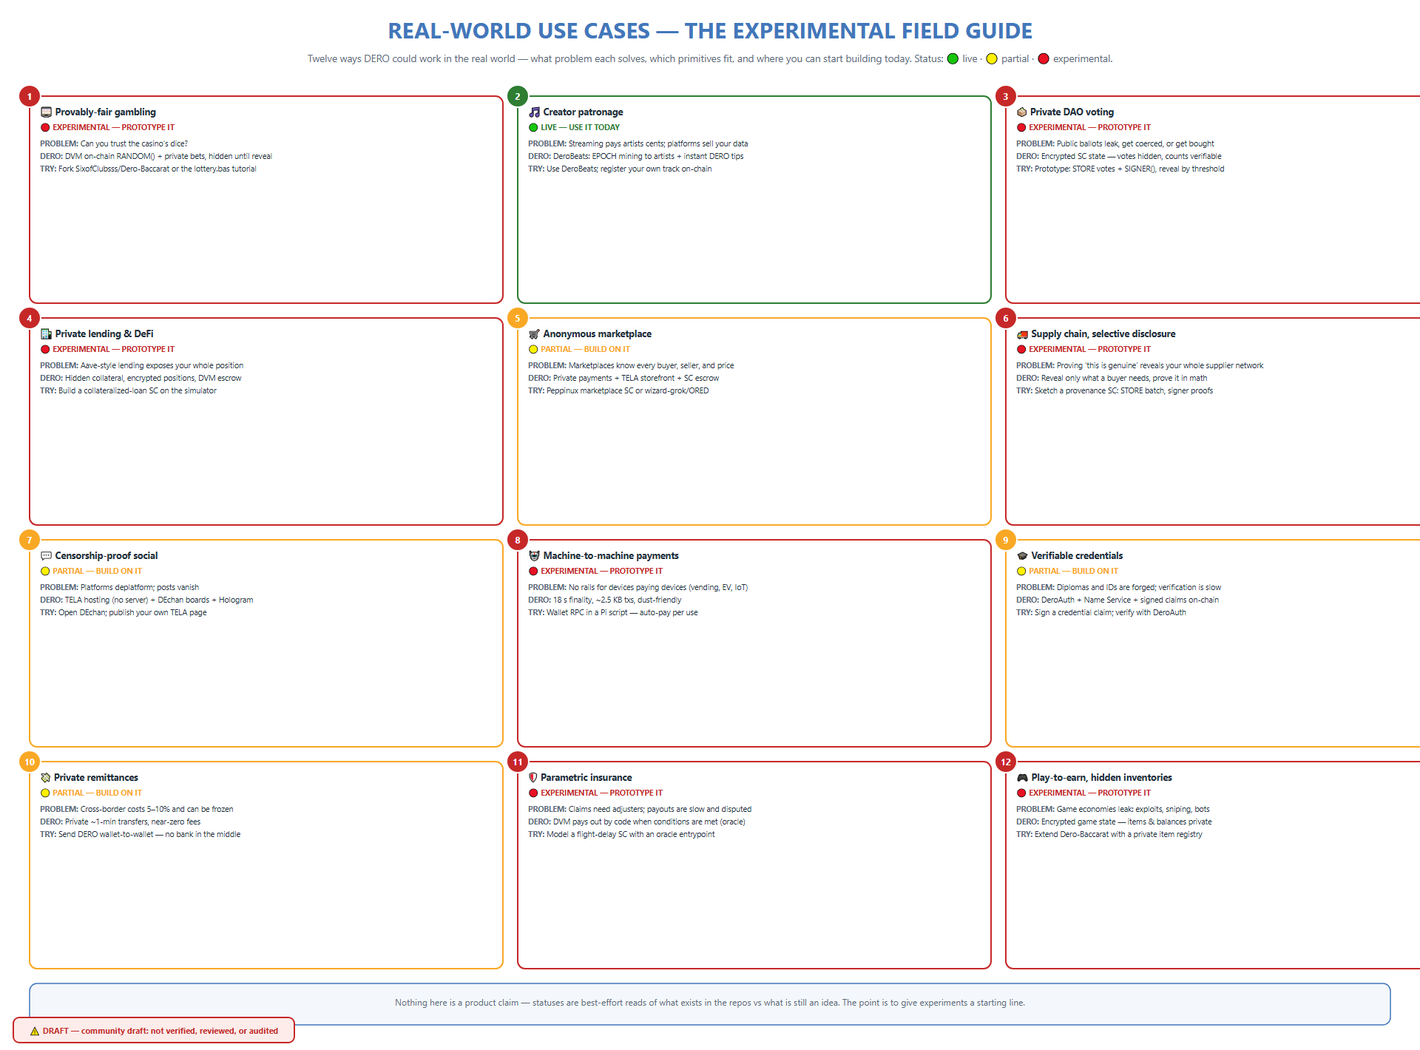
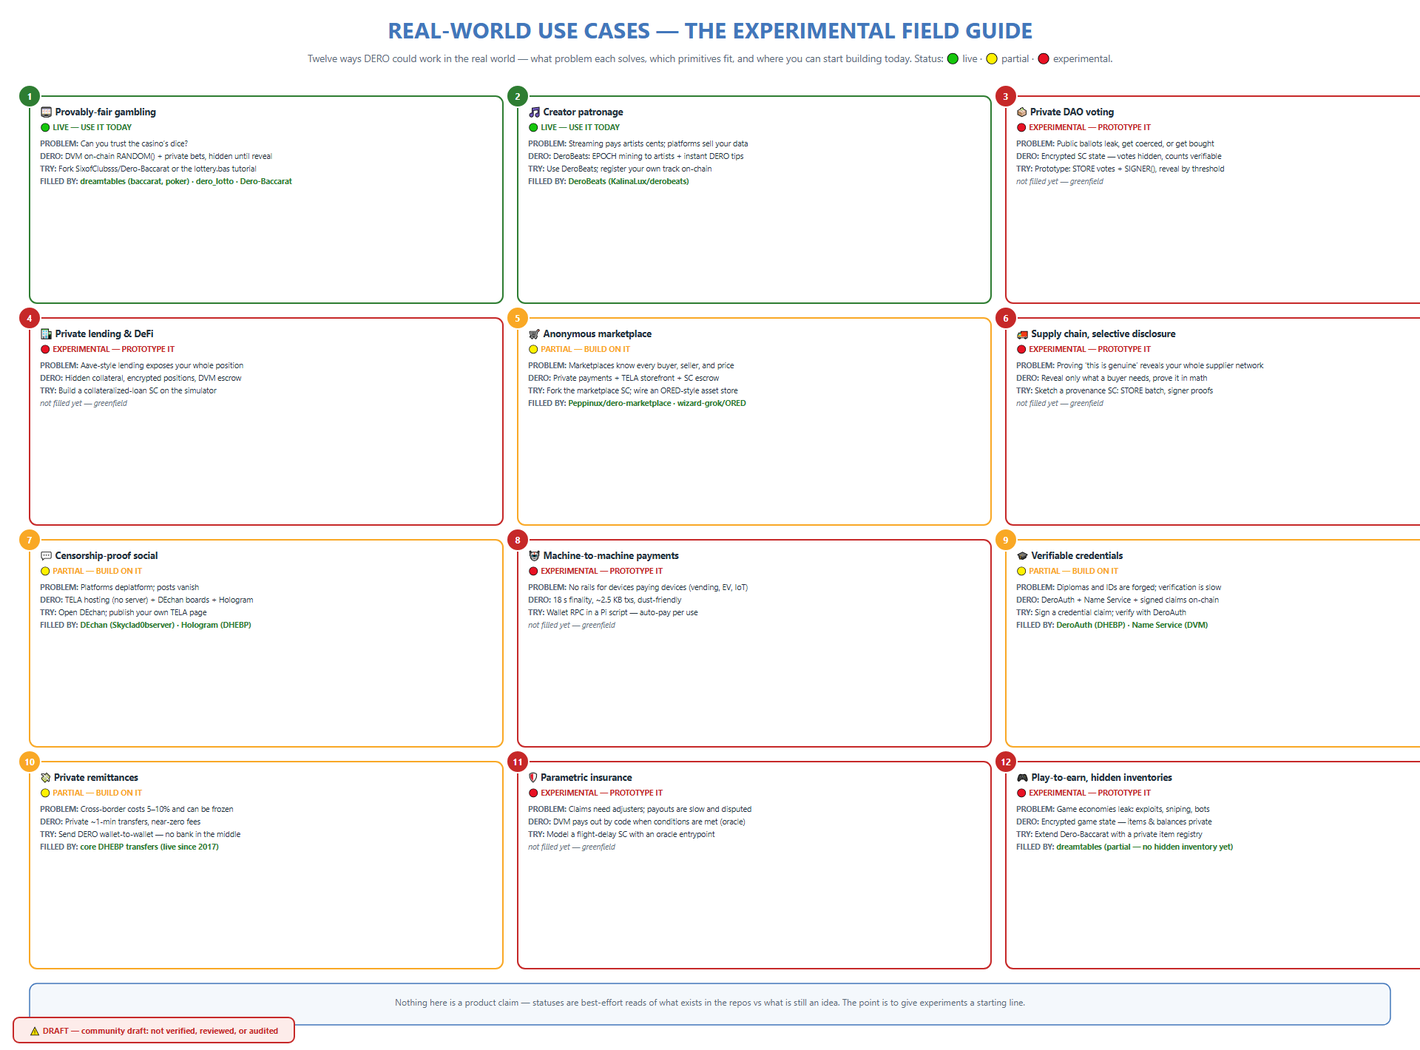
Fill in real projects on field guide cards + fix gambling status
- Every use-case card now ends with FILLED BY (green, real project) or
  'not filled yet - greenfield' (italic):
  * Filled: gambling (dreamtables, dero_lotto, Dero-Baccarat),
    patronage (DeroBeats), marketplace (Peppinux SC, ORED), social
    (DEchan, Hologram), credentials (DeroAuth, Name Service),
    remittances (core DHEBP), P2E (dreamtables, partial)
  * Greenfield: DAO voting, lending/DeFi, supply chain, M2M, insurance
- Provably-fair gambling corrected to LIVE (dreamtables + dero_lotto
  are running) - was marked experimental
- Subtitle explains the FILLED BY convention

diff --git a/preview_experiments1.html b/preview_experiments1.html
@@ -2,14 +2,15 @@
 <rect x="0" y="0" width="1920" height="1420" fill="#FFFFFF"/>
 <text x="960.0" y="52" text-anchor="middle" font-size="30" font-weight="700" fill="#4277BB">REAL-WORLD USE CASES — THE EXPERIMENTAL FIELD GUIDE</text>
 <text x="960.0" y="84" text-anchor="middle" font-size="13.5" fill="#5A6B7A">Twelve ways DERO could work in the real world — what problem each solves, which primitives fit, and where you can start building today.  Status: 🟢 live · 🟡 partial · 🔴 experimental.</text>
-<rect x="40" y="130" width="640" height="280" rx="10" fill="#FFFFFF" stroke="#C62828" stroke-width="2"/>
-<circle cx="40" cy="130" r="15" fill="#C62828" stroke="#FFFFFF" stroke-width="2"/>
+<rect x="40" y="130" width="640" height="280" rx="10" fill="#FFFFFF" stroke="#2E7D32" stroke-width="2"/>
+<circle cx="40" cy="130" r="15" fill="#2E7D32" stroke="#FFFFFF" stroke-width="2"/>
 <text x="40" y="135" text-anchor="middle" font-size="12" font-weight="700" fill="#FFFFFF">1</text>
 <text x="54" y="156" font-size="12.5" font-weight="700" fill="#22303C">🎰 Provably-fair gambling</text>
-<text x="54" y="176" font-size="10.5" font-weight="700" fill="#C62828">🔴 EXPERIMENTAL — PROTOTYPE IT</text>
+<text x="54" y="176" font-size="10.5" font-weight="700" fill="#2E7D32">🟢 LIVE — USE IT TODAY</text>
 <text x="54" y="198" font-size="10.5" fill="#22303C"><tspan font-weight="700" fill="#5A6B7A">PROBLEM: </tspan>Can you trust the casino’s dice?</text>
 <text x="54" y="215" font-size="10.5" fill="#22303C"><tspan font-weight="700" fill="#5A6B7A">DERO: </tspan>DVM on-chain RANDOM() + private bets, hidden until reveal</text>
 <text x="54" y="232" font-size="10.5" fill="#22303C"><tspan font-weight="700" fill="#5A6B7A">TRY: </tspan>Fork SixofClubsss/Dero-Baccarat or the lottery.bas tutorial</text>
+<text x="54" y="249" font-size="10.5" fill="#22303C"><tspan font-weight="700" fill="#5A6B7A">FILLED BY: </tspan><tspan font-weight="700" fill="#2E7D32">dreamtables (baccarat, poker) · dero_lotto · Dero-Baccarat</tspan></text>
 <rect x="700" y="130" width="640" height="280" rx="10" fill="#FFFFFF" stroke="#2E7D32" stroke-width="2"/>
 <circle cx="700" cy="130" r="15" fill="#2E7D32" stroke="#FFFFFF" stroke-width="2"/>
 <text x="700" y="135" text-anchor="middle" font-size="12" font-weight="700" fill="#FFFFFF">2</text>
@@ -18,6 +19,7 @@
 <text x="714" y="198" font-size="10.5" fill="#22303C"><tspan font-weight="700" fill="#5A6B7A">PROBLEM: </tspan>Streaming pays artists cents; platforms sell your data</text>
 <text x="714" y="215" font-size="10.5" fill="#22303C"><tspan font-weight="700" fill="#5A6B7A">DERO: </tspan>DeroBeats: EPOCH mining to artists + instant DERO tips</text>
 <text x="714" y="232" font-size="10.5" fill="#22303C"><tspan font-weight="700" fill="#5A6B7A">TRY: </tspan>Use DeroBeats; register your own track on-chain</text>
+<text x="714" y="249" font-size="10.5" fill="#22303C"><tspan font-weight="700" fill="#5A6B7A">FILLED BY: </tspan><tspan font-weight="700" fill="#2E7D32">DeroBeats (KalinaLux/derobeats)</tspan></text>
 <rect x="1360" y="130" width="640" height="280" rx="10" fill="#FFFFFF" stroke="#C62828" stroke-width="2"/>
 <circle cx="1360" cy="130" r="15" fill="#C62828" stroke="#FFFFFF" stroke-width="2"/>
 <text x="1360" y="135" text-anchor="middle" font-size="12" font-weight="700" fill="#FFFFFF">3</text>
@@ -26,6 +28,7 @@
 <text x="1374" y="198" font-size="10.5" fill="#22303C"><tspan font-weight="700" fill="#5A6B7A">PROBLEM: </tspan>Public ballots leak, get coerced, or get bought</text>
 <text x="1374" y="215" font-size="10.5" fill="#22303C"><tspan font-weight="700" fill="#5A6B7A">DERO: </tspan>Encrypted SC state — votes hidden, counts verifiable</text>
 <text x="1374" y="232" font-size="10.5" fill="#22303C"><tspan font-weight="700" fill="#5A6B7A">TRY: </tspan>Prototype: STORE votes + SIGNER(), reveal by threshold</text>
+<text x="1374" y="249" font-size="10.5" font-style="italic" fill="#66727E">not filled yet — greenfield</text>
 <rect x="40" y="430" width="640" height="280" rx="10" fill="#FFFFFF" stroke="#C62828" stroke-width="2"/>
 <circle cx="40" cy="430" r="15" fill="#C62828" stroke="#FFFFFF" stroke-width="2"/>
 <text x="40" y="435" text-anchor="middle" font-size="12" font-weight="700" fill="#FFFFFF">4</text>
@@ -34,6 +37,7 @@
 <text x="54" y="498" font-size="10.5" fill="#22303C"><tspan font-weight="700" fill="#5A6B7A">PROBLEM: </tspan>Aave-style lending exposes your whole position</text>
 <text x="54" y="515" font-size="10.5" fill="#22303C"><tspan font-weight="700" fill="#5A6B7A">DERO: </tspan>Hidden collateral, encrypted positions, DVM escrow</text>
 <text x="54" y="532" font-size="10.5" fill="#22303C"><tspan font-weight="700" fill="#5A6B7A">TRY: </tspan>Build a collateralized-loan SC on the simulator</text>
+<text x="54" y="549" font-size="10.5" font-style="italic" fill="#66727E">not filled yet — greenfield</text>
 <rect x="700" y="430" width="640" height="280" rx="10" fill="#FFFFFF" stroke="#F9A825" stroke-width="2"/>
 <circle cx="700" cy="430" r="15" fill="#F9A825" stroke="#FFFFFF" stroke-width="2"/>
 <text x="700" y="435" text-anchor="middle" font-size="12" font-weight="700" fill="#FFFFFF">5</text>
@@ -41,7 +45,8 @@
 <text x="714" y="476" font-size="10.5" font-weight="700" fill="#F9A825">🟡 PARTIAL — BUILD ON IT</text>
 <text x="714" y="498" font-size="10.5" fill="#22303C"><tspan font-weight="700" fill="#5A6B7A">PROBLEM: </tspan>Marketplaces know every buyer, seller, and price</text>
 <text x="714" y="515" font-size="10.5" fill="#22303C"><tspan font-weight="700" fill="#5A6B7A">DERO: </tspan>Private payments + TELA storefront + SC escrow</text>
-<text x="714" y="532" font-size="10.5" fill="#22303C"><tspan font-weight="700" fill="#5A6B7A">TRY: </tspan>Peppinux marketplace SC or wizard-grok/ORED</text>
+<text x="714" y="532" font-size="10.5" fill="#22303C"><tspan font-weight="700" fill="#5A6B7A">TRY: </tspan>Fork the marketplace SC; wire an ORED-style asset store</text>
+<text x="714" y="549" font-size="10.5" fill="#22303C"><tspan font-weight="700" fill="#5A6B7A">FILLED BY: </tspan><tspan font-weight="700" fill="#2E7D32">Peppinux/dero-marketplace · wizard-grok/ORED</tspan></text>
 <rect x="1360" y="430" width="640" height="280" rx="10" fill="#FFFFFF" stroke="#C62828" stroke-width="2"/>
 <circle cx="1360" cy="430" r="15" fill="#C62828" stroke="#FFFFFF" stroke-width="2"/>
 <text x="1360" y="435" text-anchor="middle" font-size="12" font-weight="700" fill="#FFFFFF">6</text>
@@ -50,6 +55,7 @@
 <text x="1374" y="498" font-size="10.5" fill="#22303C"><tspan font-weight="700" fill="#5A6B7A">PROBLEM: </tspan>Proving ‘this is genuine’ reveals your whole supplier network</text>
 <text x="1374" y="515" font-size="10.5" fill="#22303C"><tspan font-weight="700" fill="#5A6B7A">DERO: </tspan>Reveal only what a buyer needs, prove it in math</text>
 <text x="1374" y="532" font-size="10.5" fill="#22303C"><tspan font-weight="700" fill="#5A6B7A">TRY: </tspan>Sketch a provenance SC: STORE batch, signer proofs</text>
+<text x="1374" y="549" font-size="10.5" font-style="italic" fill="#66727E">not filled yet — greenfield</text>
 <rect x="40" y="730" width="640" height="280" rx="10" fill="#FFFFFF" stroke="#F9A825" stroke-width="2"/>
 <circle cx="40" cy="730" r="15" fill="#F9A825" stroke="#FFFFFF" stroke-width="2"/>
 <text x="40" y="735" text-anchor="middle" font-size="12" font-weight="700" fill="#FFFFFF">7</text>
@@ -58,6 +64,7 @@
 <text x="54" y="798" font-size="10.5" fill="#22303C"><tspan font-weight="700" fill="#5A6B7A">PROBLEM: </tspan>Platforms deplatform; posts vanish</text>
 <text x="54" y="815" font-size="10.5" fill="#22303C"><tspan font-weight="700" fill="#5A6B7A">DERO: </tspan>TELA hosting (no server) + DEchan boards + Hologram</text>
 <text x="54" y="832" font-size="10.5" fill="#22303C"><tspan font-weight="700" fill="#5A6B7A">TRY: </tspan>Open DEchan; publish your own TELA page</text>
+<text x="54" y="849" font-size="10.5" fill="#22303C"><tspan font-weight="700" fill="#5A6B7A">FILLED BY: </tspan><tspan font-weight="700" fill="#2E7D32">DEchan (Skyclad0bserver) · Hologram (DHEBP)</tspan></text>
 <rect x="700" y="730" width="640" height="280" rx="10" fill="#FFFFFF" stroke="#C62828" stroke-width="2"/>
 <circle cx="700" cy="730" r="15" fill="#C62828" stroke="#FFFFFF" stroke-width="2"/>
 <text x="700" y="735" text-anchor="middle" font-size="12" font-weight="700" fill="#FFFFFF">8</text>
@@ -66,6 +73,7 @@
 <text x="714" y="798" font-size="10.5" fill="#22303C"><tspan font-weight="700" fill="#5A6B7A">PROBLEM: </tspan>No rails for devices paying devices (vending, EV, IoT)</text>
 <text x="714" y="815" font-size="10.5" fill="#22303C"><tspan font-weight="700" fill="#5A6B7A">DERO: </tspan>18 s finality, ~2.5 KB txs, dust-friendly</text>
 <text x="714" y="832" font-size="10.5" fill="#22303C"><tspan font-weight="700" fill="#5A6B7A">TRY: </tspan>Wallet RPC in a Pi script — auto-pay per use</text>
+<text x="714" y="849" font-size="10.5" font-style="italic" fill="#66727E">not filled yet — greenfield</text>
 <rect x="1360" y="730" width="640" height="280" rx="10" fill="#FFFFFF" stroke="#F9A825" stroke-width="2"/>
 <circle cx="1360" cy="730" r="15" fill="#F9A825" stroke="#FFFFFF" stroke-width="2"/>
 <text x="1360" y="735" text-anchor="middle" font-size="12" font-weight="700" fill="#FFFFFF">9</text>
@@ -74,6 +82,7 @@
 <text x="1374" y="798" font-size="10.5" fill="#22303C"><tspan font-weight="700" fill="#5A6B7A">PROBLEM: </tspan>Diplomas and IDs are forged; verification is slow</text>
 <text x="1374" y="815" font-size="10.5" fill="#22303C"><tspan font-weight="700" fill="#5A6B7A">DERO: </tspan>DeroAuth + Name Service + signed claims on-chain</text>
 <text x="1374" y="832" font-size="10.5" fill="#22303C"><tspan font-weight="700" fill="#5A6B7A">TRY: </tspan>Sign a credential claim; verify with DeroAuth</text>
+<text x="1374" y="849" font-size="10.5" fill="#22303C"><tspan font-weight="700" fill="#5A6B7A">FILLED BY: </tspan><tspan font-weight="700" fill="#2E7D32">DeroAuth (DHEBP) · Name Service (DVM)</tspan></text>
 <rect x="40" y="1030" width="640" height="280" rx="10" fill="#FFFFFF" stroke="#F9A825" stroke-width="2"/>
 <circle cx="40" cy="1030" r="15" fill="#F9A825" stroke="#FFFFFF" stroke-width="2"/>
 <text x="40" y="1035" text-anchor="middle" font-size="12" font-weight="700" fill="#FFFFFF">10</text>
@@ -82,6 +91,7 @@
 <text x="54" y="1098" font-size="10.5" fill="#22303C"><tspan font-weight="700" fill="#5A6B7A">PROBLEM: </tspan>Cross-border costs 5–10% and can be frozen</text>
 <text x="54" y="1115" font-size="10.5" fill="#22303C"><tspan font-weight="700" fill="#5A6B7A">DERO: </tspan>Private ~1-min transfers, near-zero fees</text>
 <text x="54" y="1132" font-size="10.5" fill="#22303C"><tspan font-weight="700" fill="#5A6B7A">TRY: </tspan>Send DERO wallet-to-wallet — no bank in the middle</text>
+<text x="54" y="1149" font-size="10.5" fill="#22303C"><tspan font-weight="700" fill="#5A6B7A">FILLED BY: </tspan><tspan font-weight="700" fill="#2E7D32">core DHEBP transfers (live since 2017)</tspan></text>
 <rect x="700" y="1030" width="640" height="280" rx="10" fill="#FFFFFF" stroke="#C62828" stroke-width="2"/>
 <circle cx="700" cy="1030" r="15" fill="#C62828" stroke="#FFFFFF" stroke-width="2"/>
 <text x="700" y="1035" text-anchor="middle" font-size="12" font-weight="700" fill="#FFFFFF">11</text>
@@ -90,6 +100,7 @@
 <text x="714" y="1098" font-size="10.5" fill="#22303C"><tspan font-weight="700" fill="#5A6B7A">PROBLEM: </tspan>Claims need adjusters; payouts are slow and disputed</text>
 <text x="714" y="1115" font-size="10.5" fill="#22303C"><tspan font-weight="700" fill="#5A6B7A">DERO: </tspan>DVM pays out by code when conditions are met (oracle)</text>
 <text x="714" y="1132" font-size="10.5" fill="#22303C"><tspan font-weight="700" fill="#5A6B7A">TRY: </tspan>Model a flight-delay SC with an oracle entrypoint</text>
+<text x="714" y="1149" font-size="10.5" font-style="italic" fill="#66727E">not filled yet — greenfield</text>
 <rect x="1360" y="1030" width="640" height="280" rx="10" fill="#FFFFFF" stroke="#C62828" stroke-width="2"/>
 <circle cx="1360" cy="1030" r="15" fill="#C62828" stroke="#FFFFFF" stroke-width="2"/>
 <text x="1360" y="1035" text-anchor="middle" font-size="12" font-weight="700" fill="#FFFFFF">12</text>
@@ -98,6 +109,7 @@
 <text x="1374" y="1098" font-size="10.5" fill="#22303C"><tspan font-weight="700" fill="#5A6B7A">PROBLEM: </tspan>Game economies leak: exploits, sniping, bots</text>
 <text x="1374" y="1115" font-size="10.5" fill="#22303C"><tspan font-weight="700" fill="#5A6B7A">DERO: </tspan>Encrypted game state — items &amp; balances private</text>
 <text x="1374" y="1132" font-size="10.5" fill="#22303C"><tspan font-weight="700" fill="#5A6B7A">TRY: </tspan>Extend Dero-Baccarat with a private item registry</text>
+<text x="1374" y="1149" font-size="10.5" fill="#22303C"><tspan font-weight="700" fill="#5A6B7A">FILLED BY: </tspan><tspan font-weight="700" fill="#2E7D32">dreamtables (partial — no hidden inventory yet)</tspan></text>
 <rect x="40" y="1330" width="1840" height="56" rx="10" fill="#F4F8FC" stroke="#4277BB" stroke-width="1.5"/>
 <text x="960" y="1360" text-anchor="middle" font-size="12" fill="#5A6B7A">Nothing here is a product claim — statuses are best-effort reads of what exists in the repos vs what is still an idea. The point is to give experiments a starting line.</text>
 <rect x="18" y="1376" width="380" height="34" rx="8" fill="#FDECEA" stroke="#C62828" stroke-width="2"/><text x="208" y="1398" text-anchor="middle" font-size="11" font-weight="700" fill="#C62828">⚠ DRAFT — community draft: not verified, reviewed, or audited</text></svg></body></html>

diff --git a/build_experiments_diagram.py b/build_experiments_diagram.py
@@ -17,54 +17,66 @@ STATUS = {"LIVE": ("#2E7D32", "\U0001F7E2 LIVE \u2014 USE IT TODAY"),
 W, H = 1920, 1420
 
 CARDS = [
-    ("\U0001F3B0 Provably-fair gambling", "EXP",
+    ("\U0001F3B0 Provably-fair gambling", "LIVE",
      "Can you trust the casino\u2019s dice?",
      "DVM on-chain RANDOM() + private bets, hidden until reveal",
-     "Fork SixofClubsss/Dero-Baccarat or the lottery.bas tutorial"),
+     "Fork SixofClubsss/Dero-Baccarat or the lottery.bas tutorial",
+     "dreamtables (baccarat, poker) \u00b7 dero_lotto \u00b7 Dero-Baccarat"),
     ("\U0001F3B5 Creator patronage", "LIVE",
      "Streaming pays artists cents; platforms sell your data",
      "DeroBeats: EPOCH mining to artists + instant DERO tips",
-     "Use DeroBeats; register your own track on-chain"),
+     "Use DeroBeats; register your own track on-chain",
+     "DeroBeats (KalinaLux/derobeats)"),
     ("\U0001F5F3\uFE0F Private DAO voting", "EXP",
      "Public ballots leak, get coerced, or get bought",
      "Encrypted SC state \u2014 votes hidden, counts verifiable",
-     "Prototype: STORE votes + SIGNER(), reveal by threshold"),
+     "Prototype: STORE votes + SIGNER(), reveal by threshold",
+     None),
     ("\U0001F3E6 Private lending & DeFi", "EXP",
      "Aave-style lending exposes your whole position",
      "Hidden collateral, encrypted positions, DVM escrow",
-     "Build a collateralized-loan SC on the simulator"),
+     "Build a collateralized-loan SC on the simulator",
+     None),
     ("\U0001F6D2 Anonymous marketplace", "PARTIAL",
      "Marketplaces know every buyer, seller, and price",
      "Private payments + TELA storefront + SC escrow",
-     "Peppinux marketplace SC or wizard-grok/ORED"),
+     "Fork the marketplace SC; wire an ORED-style asset store",
+     "Peppinux/dero-marketplace \u00b7 wizard-grok/ORED"),
     ("\U0001F69A Supply chain, selective disclosure", "EXP",
      "Proving \u2018this is genuine\u2019 reveals your whole supplier network",
      "Reveal only what a buyer needs, prove it in math",
-     "Sketch a provenance SC: STORE batch, signer proofs"),
+     "Sketch a provenance SC: STORE batch, signer proofs",
+     None),
     ("\U0001F4AC Censorship-proof social", "PARTIAL",
      "Platforms deplatform; posts vanish",
      "TELA hosting (no server) + DEchan boards + Hologram",
-     "Open DEchan; publish your own TELA page"),
+     "Open DEchan; publish your own TELA page",
+     "DEchan (Skyclad0bserver) \u00b7 Hologram (DHEBP)"),
     ("\U0001F916 Machine-to-machine payments", "EXP",
      "No rails for devices paying devices (vending, EV, IoT)",
      "18 s finality, ~2.5 KB txs, dust-friendly",
-     "Wallet RPC in a Pi script \u2014 auto-pay per use"),
+     "Wallet RPC in a Pi script \u2014 auto-pay per use",
+     None),
     ("\U0001F393 Verifiable credentials", "PARTIAL",
      "Diplomas and IDs are forged; verification is slow",
      "DeroAuth + Name Service + signed claims on-chain",
-     "Sign a credential claim; verify with DeroAuth"),
+     "Sign a credential claim; verify with DeroAuth",
+     "DeroAuth (DHEBP) \u00b7 Name Service (DVM)"),
     ("\U0001F4B8 Private remittances", "PARTIAL",
      "Cross-border costs 5\u201310% and can be frozen",
      "Private ~1-min transfers, near-zero fees",
-     "Send DERO wallet-to-wallet \u2014 no bank in the middle"),
+     "Send DERO wallet-to-wallet \u2014 no bank in the middle",
+     "core DHEBP transfers (live since 2017)"),
     ("\U0001F6E1\uFE0F Parametric insurance", "EXP",
      "Claims need adjusters; payouts are slow and disputed",
      "DVM pays out by code when conditions are met (oracle)",
-     "Model a flight-delay SC with an oracle entrypoint"),
+     "Model a flight-delay SC with an oracle entrypoint",
+     None),
     ("\U0001F3AE Play-to-earn, hidden inventories", "EXP",
      "Game economies leak: exploits, sniping, bots",
      "Encrypted game state \u2014 items & balances private",
-     "Extend Dero-Baccarat with a private item registry"),
+     "Extend Dero-Baccarat with a private item registry",
+     "dreamtables (partial \u2014 no hidden inventory yet)"),
 ]
 
 RAMP = [
@@ -124,28 +136,34 @@ def inject_draft_svg(svg):
             f'<text x="208" y="{h-22}" text-anchor="middle" font-size="11" font-weight="700" fill="#C62828">\u26A0\uFE0F DRAFT \u2014 community draft: not verified, reviewed, or audited</text>')
     return svg.replace('</svg>', chip + '</svg>')
 
-def card_value(name, status_key, problem, fit, tryit):
+def card_value(name, status_key, problem, fit, tryit, filled_by):
     sc, stxt = STATUS[status_key]
-    return val(
+    parts = [
         f"<b>{esc(name)}</b><br>"
         f"<font color=&quot;{sc}&quot;><b>{stxt}</b></font><br>"
         f"<font color=&quot;#5A6B7A&quot;>PROBLEM:</font> {esc(problem)}<br>"
         f"<font color=&quot;#5A6B7A&quot;>DERO:</font> {esc(fit)}<br>"
-        f"<font color=&quot;#5A6B7A&quot;>TRY:</font> {esc(tryit)}")
+        f"<font color=&quot;#5A6B7A&quot;>TRY:</font> {esc(tryit)}"
+    ]
+    if filled_by:
+        parts.append(f"<font color=&quot;#5A6B7A&quot;>FILLED BY:</font> <font color=&quot;#2E7D32&quot;><b>{esc(filled_by)}</b></font>")
+    else:
+        parts.append("<font color=&quot;#66727E&quot;><i>not filled yet \u2014 greenfield</i></font>")
+    return val("<br>".join(parts))
 
 def build_page1():
     cells = []
     add = cells.append
     add(f'<mxCell id="x-t1" value="REAL-WORLD USE CASES \u2014 THE EXPERIMENTAL FIELD GUIDE" style="text;html=1;align=center;fontSize=30;fontStyle=1;fontColor={TITLE_COLOR};" vertex="1" parent="1"><mxGeometry x="20" y="22" width="1880" height="42" as="geometry"/></mxCell>')
-    add(f'<mxCell id="x-t2" value="Twelve ways DERO could work in the real world \u2014 what problem each solves, which primitives fit, and where you can start building today.  Status: \U0001F7E2 live \u00b7 \U0001F7E1 partial \u00b7 \U0001F534 experimental.  Grounded in derod.org\u2019s use-case taxonomy + community repos." style="text;html=1;align=center;fontSize=13.5;fontColor={GRAY};" vertex="1" parent="1"><mxGeometry x="20" y="68" width="1880" height="22" as="geometry"/></mxCell>')
+    add(f'<mxCell id="x-t2" value="Twelve ways DERO could work in the real world \u2014 what problem each solves, which primitives fit, and where you can start building today.  Status: \U0001F7E2 live \u00b7 \U0001F7E1 partial \u00b7 \U0001F534 experimental \u00b7 FILLED BY = real project already in that slot.  Grounded in derod.org\u2019s use-case taxonomy + community repos." style="text;html=1;align=center;fontSize=13.5;fontColor={GRAY};" vertex="1" parent="1"><mxGeometry x="20" y="68" width="1880" height="22" as="geometry"/></mxCell>')
     xs = [40, 700, 1360]
     ws = 640
     ys = [130, 430, 730, 1030]
     hs = 280
-    for i, (name, status_key, problem, fit, tryit) in enumerate(CARDS):
+    for i, (name, status_key, problem, fit, tryit, filled_by) in enumerate(CARDS):
         r, c = divmod(i, 3)
         x, y = xs[c], ys[r]
-        add(f'<mxCell id="x-c{i}" value="{card_value(name, status_key, problem, fit, tryit)}" style="rounded=1;whiteSpace=wrap;html=1;fillColor=#FFFFFF;strokeColor={STATUS[status_key][0]};strokeWidth=2;verticalAlign=top;align=left;spacing=10;spacingTop=12;fontSize=10.5;fontColor={INK};" vertex="1" parent="1"><mxGeometry x="{x}" y="{y}" width="{ws}" height="{hs}" as="geometry"/></mxCell>')
+        add(f'<mxCell id="x-c{i}" value="{card_value(name, status_key, problem, fit, tryit, filled_by)}" style="rounded=1;whiteSpace=wrap;html=1;fillColor=#FFFFFF;strokeColor={STATUS[status_key][0]};strokeWidth=2;verticalAlign=top;align=left;spacing=10;spacingTop=12;fontSize=10.5;fontColor={INK};" vertex="1" parent="1"><mxGeometry x="{x}" y="{y}" width="{ws}" height="{hs}" as="geometry"/></mxCell>')
         sc, _ = STATUS[status_key]
         add(f'<mxCell id="x-bd{i}" value="{i+1}" style="ellipse;whiteSpace=wrap;html=1;aspect=fixed;fillColor={sc};strokeColor=#FFFFFF;strokeWidth=2;fontColor=#FFFFFF;fontSize=13;fontStyle=1;" vertex="1" parent="1"><mxGeometry x="{x-15}" y="{y-15}" width="30" height="30" as="geometry"/></mxCell>')
     add(f'<mxCell id="x-f" value="Nothing here is a product claim \u2014 statuses are best-effort reads of what exists in the repos vs what is still an idea.  The point of this page is to give experiments a starting line." style="rounded=1;whiteSpace=wrap;html=1;fillColor=#F4F8FC;strokeColor={TITLE_COLOR};strokeWidth=1.5;fontSize=12;fontColor={GRAY};align=center;verticalAlign=middle;" vertex="1" parent="1"><mxGeometry x="40" y="1330" width="1840" height="56" as="geometry"/></mxCell>')
@@ -182,7 +200,7 @@ def build_svg_p1():
     A(f'<text x="{W/2}" y="52" text-anchor="middle" font-size="30" font-weight="700" fill="{TITLE_COLOR}">REAL-WORLD USE CASES \u2014 THE EXPERIMENTAL FIELD GUIDE</text>')
     A(f'<text x="{W/2}" y="84" text-anchor="middle" font-size="13.5" fill="{GRAY}">Twelve ways DERO could work in the real world \u2014 what problem each solves, which primitives fit, and where you can start building today.  Status: \U0001F7E2 live \u00b7 \U0001F7E1 partial \u00b7 \U0001F534 experimental.</text>')
     xs = [40, 700, 1360]; ws = 640; ys = [130, 430, 730, 1030]; hs = 280
-    for i, (name, status_key, problem, fit, tryit) in enumerate(CARDS):
+    for i, (name, status_key, problem, fit, tryit, filled_by) in enumerate(CARDS):
         r, c = divmod(i, 3)
         x, y, w, h = xs[c], ys[r], ws, hs
         sc, stxt = STATUS[status_key]
@@ -197,6 +215,10 @@ def build_svg_p1():
             A(f'<text x="{x+14}" y="{ty}" font-size="10.5" fill="{INK}"><tspan font-weight="700" fill="#5A6B7A">DERO: </tspan>{svg_esc(ln)}</text>'); ty += 17
         for ln in wrap(tryit, w - 28, 10.5):
             A(f'<text x="{x+14}" y="{ty}" font-size="10.5" fill="{INK}"><tspan font-weight="700" fill="#5A6B7A">TRY: </tspan>{svg_esc(ln)}</text>'); ty += 17
+        if filled_by:
+            A(f'<text x="{x+14}" y="{ty}" font-size="10.5" fill="{INK}"><tspan font-weight="700" fill="#5A6B7A">FILLED BY: </tspan><tspan font-weight="700" fill="#2E7D32">{svg_esc(filled_by)}</tspan></text>')
+        else:
+            A(f'<text x="{x+14}" y="{ty}" font-size="10.5" font-style="italic" fill="#66727E">not filled yet \u2014 greenfield</text>')
     A(f'<rect x="40" y="1330" width="1840" height="56" rx="10" fill="#F4F8FC" stroke="{TITLE_COLOR}" stroke-width="1.5"/>')
     A(f'<text x="960" y="1360" text-anchor="middle" font-size="12" fill="{GRAY}">Nothing here is a product claim \u2014 statuses are best-effort reads of what exists in the repos vs what is still an idea. The point is to give experiments a starting line.</text>')
     A('</svg>')
